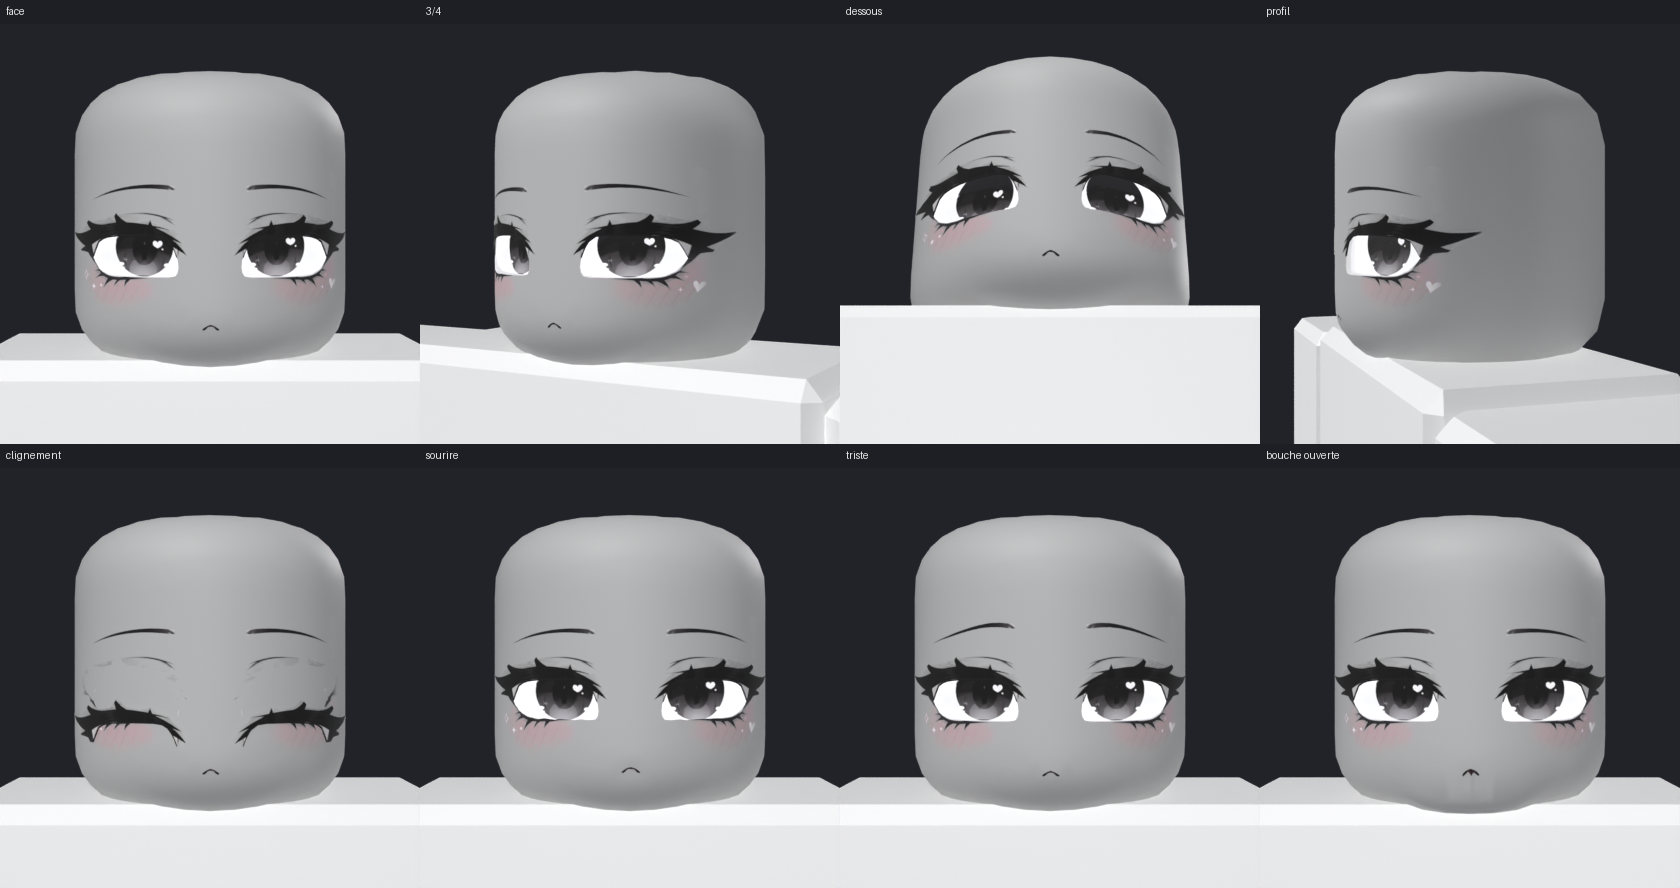
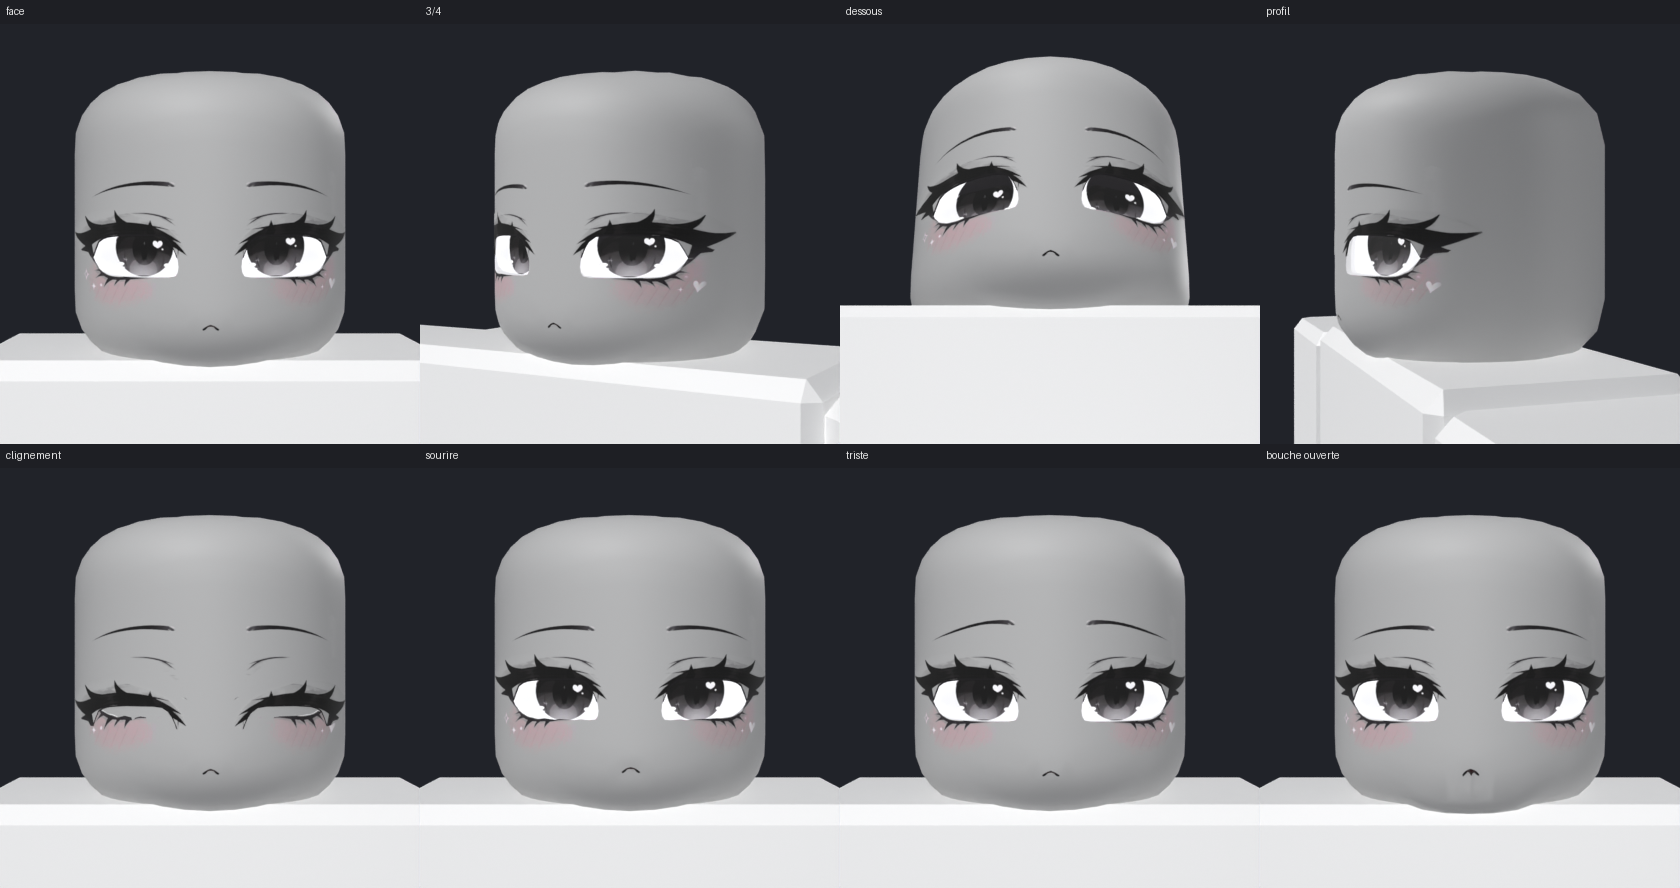
Girl head v4: blink closes in the middle (drawn eyeliner on its own bone stops mid-eye, lower lid rises), lash band = convex hull (spike tips kept), no grey haze behind the lashes, brows slightly higher
Claude-Session: https://claude.ai/code/session_01CBiVczwoBfbRJYLHozwUtQ

diff --git a/dynamic_head_anime/tools/build_head.py b/dynamic_head_anime/tools/build_head.py
@@ -530,8 +530,9 @@ def skin_y(x, z):
     return max(loc.y, sy)                # the deeper of the two (chords of the shell lie behind the base surface)
 LID_DOME = 0.004
 LID_COLS, LID_ROWS = 12, 7     # columns: one tucked beyond each corner, one right at the outline, 12 across
-LASH_T = 0.003 if FACE_STYLE == 'girl2' else 0.011   # eyeliner thickness in front of the face
-DRAWN_LASH = FACE_STYLE == 'girl2'   # the 3D eyeliner carries the drawing itself (front faces use the face texture)
+LASH_T = 0.002 if FACE_STYLE == 'girl2' else 0.011   # eyeliner thickness in front of the face
+DRAWN_LASH = FACE_STYLE == 'girl2'
+BLINK_MID = FACE_STYLE == 'girl2'   # the 3D eyeliner carries the drawing itself (front faces use the face texture)
 LASH_OVER = 0.0055        # eyeliner overhang below the opening's top rim
 def smoothstep(a, b, x):
     t = max(0.0, min(1.0, (x - a) / (b - a)))
@@ -548,7 +549,7 @@ def inside_d(s, x, z):
     return d if pip((x, z), EYES[s]) else -d
 lid_info = {}
 PULL = {}
-LID_D = 0.0065 if FACE_STYLE != 'boy' else float(os.environ.get('LID_D', 0.0025))   # how far behind the skin the lid slides back up
+LID_D = 0.0025 if FACE_STYLE == 'girl2' else 0.0065 if FACE_STYLE != 'boy' else float(os.environ.get('LID_D', 0.0025))   # how far behind the skin the lid slides back up
 for s in 'LR':
     x0, x1 = eye_xr(s)
     xc = (x0 + x1) / 2
@@ -958,6 +959,8 @@ for idx, p in enumerate(REST):
         pass                                             # black pupil ball: fixed
     elif side and idx in LID_IDX[side]:
         w[nm + 'UpperEyelid'] = 1.0
+    elif side and idx in LASH_IDX[side] and BLINK_MID:
+        w[nm + 'LashTip'] = 1.0
     elif side and idx in LASH_IDX[side]:
         wt = LASH_WT[idx]
         w[nm + 'UpperEyelid'] = 1.0 - wt
@@ -1171,6 +1174,27 @@ if MOUTH_K < 0.999:
             elif _tv[0] == 't' and len(_tv) == 2 and _bn == 'Jaw' and _pn.startswith('ChinRaiser'):
                 _pd[_bn] = T(_tv[1].x, _tv[1].y * MOUTH_K ** 0.35, _tv[1].z * MOUTH_K ** 0.35)   # gentler chin push
     print('mouth poses scaled sideways by', round(MOUTH_K, 3))
+if BLINK_MID:
+    # the eye closes IN THE MIDDLE: the skin lid still covers the whole opening, but the drawn eyeliner (its own bone,
+    # LashTip) only comes down to ~45 % of the eye height, and the lower lid (lower rim + lower lashes) comes up a little
+    LK, UPZ = {}, {}
+    for s_ in 'LR':
+        xs__ = [q[0] for q in EYES[s_]]; xc__ = (min(xs__) + max(xs__)) / 2
+        zt_, zb_ = vertical_span(EYES[s_], xc__)
+        travel = -lid_info[s_]['t'].z
+        zmeet = zb_ + 0.42 * (zt_ - zb_)
+        LK[s_] = max(0.2, min(1.0, (zt_ - zmeet) / travel + 0.04))
+        UPZ[s_] = 0.022
+    print('blink in the middle: eyeliner travel', {k: round(v, 3) for k, v in LK.items()})
+    for pn, pd in P.items():
+        for s_, nm_ in (('L', 'Left'), ('R', 'Right')):
+            v_ = pd.get(nm_ + 'UpperEyelid')
+            if v_ is not None and len(v_) > 3 and v_[2] == 'lid':
+                f_ = v_[3]
+                pd[nm_ + 'LashTip'] = ('t', Vector(lid_info[s_]['t']) * (f_ * LK[s_] if f_ > 0 else f_))
+                if f_ >= 0.999:
+                    u_ = pd.get(nm_ + 'UnderEye')
+                    pd[nm_ + 'UnderEye'] = T(0, 0, UPZ[s_] + (u_[1].z if u_ else 0.0))
 ORDER = sorted(k for k in P if '_' not in k) + sorted(k for k in P if '_' in k)   # base poses A-Z, then combinations
 REQUIRED = ['LeftEyeClosed', 'RightEyeClosed', 'EyesLookDown', 'JawDrop', 'Pucker', 'LeftLipCornerPuller',
             'RightLipCornerPuller', 'ChinRaiser', 'ChinRaiserUpperLip', 'LeftCheekRaiser', 'RightCheekRaiser',

diff --git a/dynamic_head_anime/tools/extract_face.py b/dynamic_head_anime/tools/extract_face.py
@@ -180,9 +180,9 @@ for side in 'RL':
     _wz = np.maximum(_wz, np.clip(np.maximum(_e0 + 2 - _x, _x - _e1 - 2) / 6, 0, 1) * ((_x > _e0 - 90) & (_x < _e1 + 90)))
 lash_mask = (lash_mask * (1 - _wz[None, :]) + np.minimum(lash_mask, wing_mask) * _wz[None, :]).astype(np.uint8)
 ALPHA_FULL = alpha.copy()                              # (girl2: copied onto the 3D eyeliner before erasing)
-if FACE_STYLE == 'girl2':                              # erase only the ink of the liner / lashes, not the eyeshadow
-    lash_mask = np.minimum(lash_mask, cv2.dilate((ALPHA_FULL > 0.3).astype(np.uint8) * 255, np.ones((5, 5), np.uint8)))
+# (girl2: the whole band area is cleared on the skin, the grey eyeshadow haze of the drawing included)
 ERASE = cv2.GaussianBlur(lash_mask.astype(np.float32) / 255, (0, 0), 1.0)
+BROW_UP = float(os.environ.get('BROW_UP', 7))
 alpha *= 1 - ERASE
 # outer wing: the drawn lower stroke and the 3D eyeliner meet at the tip with a thin wedge of skin between them; fill
 # that wedge with ink (closing of ink + eyeliner band + opening, only beyond the outer corners) -> one solid wing
@@ -231,6 +231,8 @@ face = np.zeros((fh, fw, 4), np.float32)
 face[..., :3] = INK if INKCOL is None else cv2.remap(INKCOL.astype(np.float32), mx, my, cv2.INTER_LINEAR, borderValue=0)
 face[..., 3] = a_s
 if SRCMAP is not None:
+    _bw = np.clip(np.minimum(my - 415, 492 - my) / 8, 0, 1) * (np.abs(mx - CX) > 40)
+    my = (my + BROW_UP * _bw).astype(np.float32)                  # brows slightly higher (more room above the lashes)
     _mult = cv2.GaussianBlur(head.astype(np.float32), (0, 0), 3) * cv2.GaussianBlur(_win, (0, 0), 6) * (1 - ERASE)
     _sx, _sy = src_coords(mx, my)
     face[..., 3] = cv2.remap(SRCMAP['a'], _sx, _sy, cv2.INTER_CUBIC, borderValue=0).clip(0, 1) * cv2.remap(_mult, mx, my, cv2.INTER_LINEAR, borderValue=0)
@@ -485,6 +487,8 @@ if FACE_STYLE == 'girl2':
         _qx, _qy = src_coords(sx_, sy_)
         a_c = cv2.remap(SRCMAP['a'], _qx, _qy, cv2.INTER_CUBIC, borderValue=0).clip(0, 1) * cv2.remap(cv2.GaussianBlur(head.astype(np.float32), (0, 0), 3), sx_, sy_, cv2.INTER_LINEAR, borderValue=0)
         c_c = cv2.remap(SRCMAP['c'], _qx, _qy, cv2.INTER_LINEAR, borderValue=0)
+        _lum = c_c.mean(2)
+        a_c = a_c * (1 - np.clip((_lum - 70) / 40, 0, 1))            # keep the ink only: no grey haze behind the lashes
         e_c = cv2.remap(eye_mask.astype(np.float32) / 255, sx_, sy_, cv2.INTER_LINEAR, borderValue=0)
         c_c = c_c * (1 - e_c[..., None]) + INK * e_c[..., None]; a_c = np.maximum(a_c, e_c)
         atlas[ry:ry + rh, rx:rx + rw, :3] = c_c; atlas[ry:ry + rh, rx:rx + rw, 3] = a_c * 255

diff --git a/dynamic_head_anime/tools/trace_liner.py b/dynamic_head_anime/tools/trace_liner.py
@@ -51,6 +51,17 @@ for x in range(int(x_lo), int(x_hi) + 1, step):
     te = top_edge(x) if ex0 < x < ex1 else None
     b_ = te if te is not None else ys.max() + 2.0
     top.append((float(x), float(t_))); bot.append((float(x), float(max(b_, t_ + 4))))
+# top edge = the UPPER CONVEX HULL of the lashes (+ margin): every spike tip is inside the band, straight between tips
+# (the band is transparent between the spikes, so the hull costs nothing visually and needs few columns)
+_pts = np.argwhere(comp)[:, ::-1].astype(np.float32)          # (x, y)
+_hull = cv2.convexHull(_pts).reshape(-1, 2)
+def hull_top(x):
+    ys = []
+    for i in range(len(_hull)):
+        (x1, y1), (x2, y2) = _hull[i], _hull[(i + 1) % len(_hull)]
+        if (x1 - x) * (x2 - x) <= 0 and x1 != x2: ys.append(y1 + (x - x1) * (y2 - y1) / (x2 - x1))
+    return min(ys) if ys else None
+top = [(float(x), float((hull_top(x) if hull_top(x) is not None else t) - 1.5)) for x, t in top]
 poly = [top[0]] + top[1:] + bot[::-1]
 # the eye opening, from the drawing: top edge = just under the drawn eyeliner ink, bottom edge = just above the drawn
 # lower lash line; the ends are the points where they meet (rounded inner corner, pointed outer corner)
